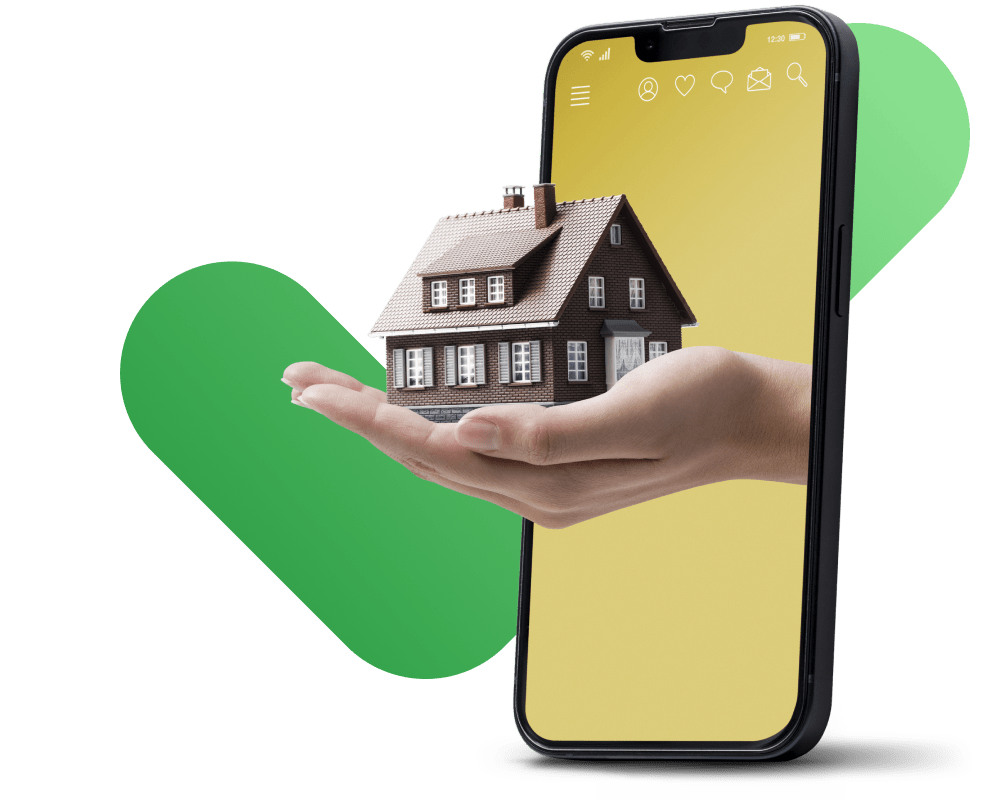
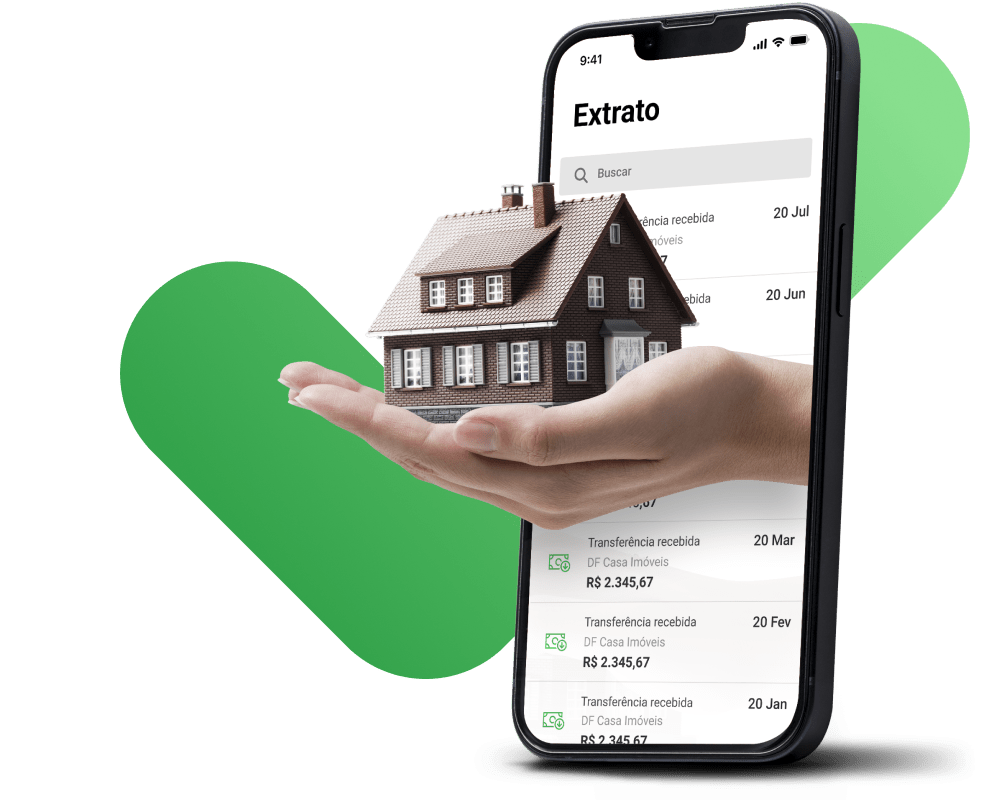
melhorias
botao de zap
links nos ctas
videos de depoimento
imagem de hero nova
correção do nome CF Casa.

diff --git a/index.html b/index.html
@@ -14,11 +14,23 @@
 		<!-- jQuery 3.6.0 (uncomment line below if you need jQuery) -->
 		<!-- <script src="https://cdnjs.cloudflare.com/ajax/libs/jquery/3.6.0/jquery.min.js"></script> -->
 		<!-- Open graph settings (social networks sharing settings) -->
-		<meta property="og:title" content="DF Casas - Aluguel garantido">
+		<meta property="og:title" content="DF Casa - Aluguel garantido">
 		<meta property="og:description" content="O aluguel garantido da DF Casa protege o proprietário, garantindo o recebimento do aluguel, condomínio e até o IPTU, em casos de inadimplencia do inquilino.">
 		<meta property="og:image" content="i/og-image.jpg">
 		<meta property="og:url" content="https://www.dfcasaimoveis.com.br/">
 		<!-- Open graph settings end -->
+		<style>
+			#ctazap {
+				position: fixed;
+				bottom: 20px;
+				right: 28px;
+				z-index: 3;
+			}
+			#ctazap img {
+				width: 80px;
+				height: 80px;
+			}
+		</style>
 	</head> 
 	<body>
 
@@ -148,9 +160,9 @@
 							Aluguel Garantido
 						</h1>
 						<p class="mb-8 fs-1" data-aos="fade-down" data-aos-delay="250">
-							Seu aluguel garantido todos os meses, mesmo que o inquilino atrase o pagamento. Tenha a segurança de receber em dia com a DF Casas.
+							Seu aluguel garantido todos os meses, mesmo que o inquilino atrase o pagamento. Tenha a segurança de receber em dia com a DF Casa.
 						</p>
-						<a href="#" class="btn btn-action-5" data-aos="fade-down" data-aos-delay="400">
+						<a href="https://api.whatsapp.com/send?phone=5515991185772&text=Ol%C3%A1,%20tenho%20interesse%20em%20saber%20mais%20sobre%20o%20Aluguel%20Garantido." target="_blank" class="btn btn-action-5" data-aos="fade-down" data-aos-delay="400">
 							Fale conosco
 						</a>
 					</div>
@@ -267,9 +279,9 @@
 										Transforme seu imóvel em um investimento.
 									</h2>
 									<p class="mb-0 mt-md-4" data-aos="fade-down" data-aos-delay="500">
-										Quer saber mais sobre o Aluguel Garantido da DF Casas? Fale conosco agora mesmo via Whatsapp! Estamos prontos para ajudar você a ter mais segurança e tranquilidade com seus aluguéis.
+										Quer saber mais sobre o Aluguel Garantido da DF Casa? Fale conosco agora mesmo via Whatsapp! Estamos prontos para ajudar você a ter mais segurança e tranquilidade com seus aluguéis.
 									</p>
-									<a href="#" class="mt-8 mb-6 btn btn-action-5" data-aos="fade-down" data-aos-delay="250">
+									<a href="https://api.whatsapp.com/send?phone=5515991185772&text=Ol%C3%A1,%20tenho%20interesse%20em%20saber%20mais%20sobre%20o%20Aluguel%20Garantido." target="_blank" class="mt-8 mb-6 btn btn-action-5" data-aos="fade-down" data-aos-delay="250">
 										Descubra os valores
 									</a>
 								</div>
@@ -289,7 +301,7 @@
 									Como funciona
 								</h2>
 								<p class="fs-2 mb-8 mb-md-15" data-aos="fade-down" data-aos-delay="250">
-									Com o Aluguel Garantido da DF Casas, uma vez que o contrato de aluguel é fechado, você não precisa se preocupar. Todos os meses, independentemente de atrasos no pagamento por parte do inquilino, o aluguel estará na sua conta.
+									Com o Aluguel Garantido da DF Casa, uma vez que o contrato de aluguel é fechado, você não precisa se preocupar. Todos os meses, independentemente de atrasos no pagamento por parte do inquilino, o aluguel estará na sua conta.
 								</p>
 							</div>
 						</div>
@@ -334,120 +346,139 @@
 					</div>
 				</section>
 				<!-- Depoimentos -->
-					<section id="depoimentos" class="py-10 py-lg-20 bg-bg-2">
-						<div class="container">
-							<div class="row justify-content-center text-md-center">
-								<div class="col-lg-10 col-xl-8">
-									<h2 class="display-5 mb-6" data-aos="fade-down" data-aos-delay="0">
-										Proprietários satisfeitos
-									</h2>
-								</div>
-								<div class="col-md-9 col-lg-7 col-xl-6 col-xxl-5 mb-15">
-									<p class="fs-2 mb-0" data-aos="fade-down" data-aos-delay="150">
-										Esses são apenas alguns dos relatos que nossos clientes postaram. Veja mais no <a class="text-action-5" target="_blank" href="https://www.google.com/search?q=df+casa+imoveis">Google</a>.
-									</p>
+				<section id="depoimentos" class="py-10 py-lg-20 bg-bg-2">
+					<div class="container">
+						<div class="row justify-content-center text-md-center">
+							<div class="col-lg-10 col-xl-8">
+								<h2 class="display-5 mb-6" data-aos="fade-down" data-aos-delay="0">
+									Proprietários satisfeitos
+								</h2>
+							</div>
+							<div class="col-md-9 col-lg-7 col-xl-6 col-xxl-5 mb-15">
+								<p class="fs-2 mb-0" data-aos="fade-down" data-aos-delay="150">
+									Esses são apenas alguns dos relatos que nossos clientes postaram. Veja mais no <a class="text-action-5" target="_blank" href="https://www.google.com/search?q=df+casa+imoveis">Google</a>.
+								</p>
+							</div>
+						</div>
+						<div class="row">
+							<div class="col-md-12 col-lg-6 mb-6 d-flex justify-content-center" data-aos="fade-down" data-aos-delay="250">
+								<div class="ratio ratio-16x9">
+									<iframe src="https://www.youtube.com/embed/Gr0u7-SByqg" title="YouTube video" allowfullscreen></iframe>
 								</div>
 							</div>
-							<div class="row">
-								<div class="col-md-6 col-lg-4 mb-6" data-aos="fade-down" data-aos-delay="250">
-									<div class="border rounded-2 h-100 p-6">
-										<h6>
-											Renata Leite da Silva
-										</h6>
-										<p class="fs-5">
-										</p>
-										<p class="mb-6">
-											Tivemos como corretora a Aline Cristine, que foi simpática demais e dedicada ao extremo. Uma profissional de alto padrão, sincera, honesta e muito prestativa que só  a DF Casa Imóveis tem. Indico sem dúvida alguma. Empresa séria e profissionais como a Aline Cristine não encontramos facilmente hoje em dia. Parabéns! Só tenho o que agradecer.
-										</p>
-										<svg width="16" height="16" viewBox="0 0 16 16" fill="none" xmlns="http://www.w3.org/2000/svg" class="fill-action-6 me-1">
-											<path d="M3.61065 15.4435C3.22465 15.6415 2.78665 15.2945 2.86465 14.8515L3.69465 10.1215L0.171653 6.7655C-0.157347 6.4515 0.0136534 5.8775 0.454653 5.8155L5.35265 5.1195L7.53665 0.7925C7.73365 0.4025 8.26665 0.4025 8.46365 0.7925L10.6477 5.1195L15.5457 5.8155C15.9867 5.8775 16.1577 6.4515 15.8287 6.7655L12.3057 10.1215L13.1357 14.8515C13.2137 15.2945 12.7757 15.6415 12.3897 15.4435L7.99865 13.1875L3.60965 15.4435H3.61065Z">
-											</path>
-										</svg>
-										<svg width="16" height="16" viewBox="0 0 16 16" fill="none" xmlns="http://www.w3.org/2000/svg" class="fill-action-6 me-1">
-											<path d="M3.61065 15.4435C3.22465 15.6415 2.78665 15.2945 2.86465 14.8515L3.69465 10.1215L0.171653 6.7655C-0.157347 6.4515 0.0136534 5.8775 0.454653 5.8155L5.35265 5.1195L7.53665 0.7925C7.73365 0.4025 8.26665 0.4025 8.46365 0.7925L10.6477 5.1195L15.5457 5.8155C15.9867 5.8775 16.1577 6.4515 15.8287 6.7655L12.3057 10.1215L13.1357 14.8515C13.2137 15.2945 12.7757 15.6415 12.3897 15.4435L7.99865 13.1875L3.60965 15.4435H3.61065Z">
-											</path>
-										</svg>
-										<svg width="16" height="16" viewBox="0 0 16 16" fill="none" xmlns="http://www.w3.org/2000/svg" class="fill-action-6 me-1">
-											<path d="M3.61065 15.4435C3.22465 15.6415 2.78665 15.2945 2.86465 14.8515L3.69465 10.1215L0.171653 6.7655C-0.157347 6.4515 0.0136534 5.8775 0.454653 5.8155L5.35265 5.1195L7.53665 0.7925C7.73365 0.4025 8.26665 0.4025 8.46365 0.7925L10.6477 5.1195L15.5457 5.8155C15.9867 5.8775 16.1577 6.4515 15.8287 6.7655L12.3057 10.1215L13.1357 14.8515C13.2137 15.2945 12.7757 15.6415 12.3897 15.4435L7.99865 13.1875L3.60965 15.4435H3.61065Z">
-											</path>
-										</svg>
-										<svg width="16" height="16" viewBox="0 0 16 16" fill="none" xmlns="http://www.w3.org/2000/svg" class="fill-action-6 me-1">
-											<path d="M3.61065 15.4435C3.22465 15.6415 2.78665 15.2945 2.86465 14.8515L3.69465 10.1215L0.171653 6.7655C-0.157347 6.4515 0.0136534 5.8775 0.454653 5.8155L5.35265 5.1195L7.53665 0.7925C7.73365 0.4025 8.26665 0.4025 8.46365 0.7925L10.6477 5.1195L15.5457 5.8155C15.9867 5.8775 16.1577 6.4515 15.8287 6.7655L12.3057 10.1215L13.1357 14.8515C13.2137 15.2945 12.7757 15.6415 12.3897 15.4435L7.99865 13.1875L3.60965 15.4435H3.61065Z">
-											</path>
-										</svg>
-										<svg width="16" height="16" viewBox="0 0 16 16" fill="none" xmlns="http://www.w3.org/2000/svg" class="fill-action-6 me-1">
-											<path d="M3.61065 15.4435C3.22465 15.6415 2.78665 15.2945 2.86465 14.8515L3.69465 10.1215L0.171653 6.7655C-0.157347 6.4515 0.0136534 5.8775 0.454653 5.8155L5.35265 5.1195L7.53665 0.7925C7.73365 0.4025 8.26665 0.4025 8.46365 0.7925L10.6477 5.1195L15.5457 5.8155C15.9867 5.8775 16.1577 6.4515 15.8287 6.7655L12.3057 10.1215L13.1357 14.8515C13.2137 15.2945 12.7757 15.6415 12.3897 15.4435L7.99865 13.1875L3.60965 15.4435H3.61065Z">
-											</path>
-										</svg>
-									</div>
-								</div>
-								<div class="col-md-6 col-lg-4 mb-6" data-aos="fade-down" data-aos-delay="400">
-									<div class="border rounded-2 h-100 p-6">
-										<h6>
-											Marcio Maia
-										</h6>
-										<p class="fs-5">
-										</p>
-										<p class="mb-6">
-											Gosto muito da forma que é conduzida as negociações na DF Casa, sendo que são justos e coerentes nas tratativas. O atendimento pessoal é muito bom sendo sempre bem recebido na recepção sem falar do atendimento personalizado da srta Yasmin que também é muito atenciosa e rápida nas respostas.
-										</p>
-										<svg width="16" height="16" viewBox="0 0 16 16" fill="none" xmlns="http://www.w3.org/2000/svg" class="fill-action-6 me-1">
-											<path d="M3.61065 15.4435C3.22465 15.6415 2.78665 15.2945 2.86465 14.8515L3.69465 10.1215L0.171653 6.7655C-0.157347 6.4515 0.0136534 5.8775 0.454653 5.8155L5.35265 5.1195L7.53665 0.7925C7.73365 0.4025 8.26665 0.4025 8.46365 0.7925L10.6477 5.1195L15.5457 5.8155C15.9867 5.8775 16.1577 6.4515 15.8287 6.7655L12.3057 10.1215L13.1357 14.8515C13.2137 15.2945 12.7757 15.6415 12.3897 15.4435L7.99865 13.1875L3.60965 15.4435H3.61065Z">
-											</path>
-										</svg>
-										<svg width="16" height="16" viewBox="0 0 16 16" fill="none" xmlns="http://www.w3.org/2000/svg" class="fill-action-6 me-1">
-											<path d="M3.61065 15.4435C3.22465 15.6415 2.78665 15.2945 2.86465 14.8515L3.69465 10.1215L0.171653 6.7655C-0.157347 6.4515 0.0136534 5.8775 0.454653 5.8155L5.35265 5.1195L7.53665 0.7925C7.73365 0.4025 8.26665 0.4025 8.46365 0.7925L10.6477 5.1195L15.5457 5.8155C15.9867 5.8775 16.1577 6.4515 15.8287 6.7655L12.3057 10.1215L13.1357 14.8515C13.2137 15.2945 12.7757 15.6415 12.3897 15.4435L7.99865 13.1875L3.60965 15.4435H3.61065Z">
-											</path>
-										</svg>
-										<svg width="16" height="16" viewBox="0 0 16 16" fill="none" xmlns="http://www.w3.org/2000/svg" class="fill-action-6 me-1">
-											<path d="M3.61065 15.4435C3.22465 15.6415 2.78665 15.2945 2.86465 14.8515L3.69465 10.1215L0.171653 6.7655C-0.157347 6.4515 0.0136534 5.8775 0.454653 5.8155L5.35265 5.1195L7.53665 0.7925C7.73365 0.4025 8.26665 0.4025 8.46365 0.7925L10.6477 5.1195L15.5457 5.8155C15.9867 5.8775 16.1577 6.4515 15.8287 6.7655L12.3057 10.1215L13.1357 14.8515C13.2137 15.2945 12.7757 15.6415 12.3897 15.4435L7.99865 13.1875L3.60965 15.4435H3.61065Z">
-											</path>
-										</svg>
-										<svg width="16" height="16" viewBox="0 0 16 16" fill="none" xmlns="http://www.w3.org/2000/svg" class="fill-action-6 me-1">
-											<path d="M3.61065 15.4435C3.22465 15.6415 2.78665 15.2945 2.86465 14.8515L3.69465 10.1215L0.171653 6.7655C-0.157347 6.4515 0.0136534 5.8775 0.454653 5.8155L5.35265 5.1195L7.53665 0.7925C7.73365 0.4025 8.26665 0.4025 8.46365 0.7925L10.6477 5.1195L15.5457 5.8155C15.9867 5.8775 16.1577 6.4515 15.8287 6.7655L12.3057 10.1215L13.1357 14.8515C13.2137 15.2945 12.7757 15.6415 12.3897 15.4435L7.99865 13.1875L3.60965 15.4435H3.61065Z">
-											</path>
-										</svg>
-										<svg width="16" height="16" viewBox="0 0 16 16" fill="none" xmlns="http://www.w3.org/2000/svg" class="fill-action-6 me-1">
-											<path d="M3.61065 15.4435C3.22465 15.6415 2.78665 15.2945 2.86465 14.8515L3.69465 10.1215L0.171653 6.7655C-0.157347 6.4515 0.0136534 5.8775 0.454653 5.8155L5.35265 5.1195L7.53665 0.7925C7.73365 0.4025 8.26665 0.4025 8.46365 0.7925L10.6477 5.1195L15.5457 5.8155C15.9867 5.8775 16.1577 6.4515 15.8287 6.7655L12.3057 10.1215L13.1357 14.8515C13.2137 15.2945 12.7757 15.6415 12.3897 15.4435L7.99865 13.1875L3.60965 15.4435H3.61065Z">
-											</path>
-										</svg>
-									</div>
-								</div>
-								<div class="col-md-6 col-lg-4 mb-6" data-aos="fade-down" data-aos-delay="500">
-									<div class="border rounded-2 h-100 p-6">
-										<h6>
-											Marcia Regina
-										</h6>
-										<p class="fs-5">
-										</p>
-										<p class="mb-6">
-											Ao contactar a DF imóveis, fui atendida por uma  moça que já  no primeiro momento me transmitiu segurança e confiança pela sua atenção e profissionalismo. Foram várias visitas e que paciência ela teve rsrs... me ouvindo, conhecendo  toda a minha história, acompanhando todo o processo,  tirando todas as dúvidas, sempre com muita transparência.
-										</p>
-										<svg width="16" height="16" viewBox="0 0 16 16" fill="none" xmlns="http://www.w3.org/2000/svg" class="fill-action-6 me-1">
-											<path d="M3.61065 15.4435C3.22465 15.6415 2.78665 15.2945 2.86465 14.8515L3.69465 10.1215L0.171653 6.7655C-0.157347 6.4515 0.0136534 5.8775 0.454653 5.8155L5.35265 5.1195L7.53665 0.7925C7.73365 0.4025 8.26665 0.4025 8.46365 0.7925L10.6477 5.1195L15.5457 5.8155C15.9867 5.8775 16.1577 6.4515 15.8287 6.7655L12.3057 10.1215L13.1357 14.8515C13.2137 15.2945 12.7757 15.6415 12.3897 15.4435L7.99865 13.1875L3.60965 15.4435H3.61065Z">
-											</path>
-										</svg>
-										<svg width="16" height="16" viewBox="0 0 16 16" fill="none" xmlns="http://www.w3.org/2000/svg" class="fill-action-6 me-1">
-											<path d="M3.61065 15.4435C3.22465 15.6415 2.78665 15.2945 2.86465 14.8515L3.69465 10.1215L0.171653 6.7655C-0.157347 6.4515 0.0136534 5.8775 0.454653 5.8155L5.35265 5.1195L7.53665 0.7925C7.73365 0.4025 8.26665 0.4025 8.46365 0.7925L10.6477 5.1195L15.5457 5.8155C15.9867 5.8775 16.1577 6.4515 15.8287 6.7655L12.3057 10.1215L13.1357 14.8515C13.2137 15.2945 12.7757 15.6415 12.3897 15.4435L7.99865 13.1875L3.60965 15.4435H3.61065Z">
-											</path>
-										</svg>
-										<svg width="16" height="16" viewBox="0 0 16 16" fill="none" xmlns="http://www.w3.org/2000/svg" class="fill-action-6 me-1">
-											<path d="M3.61065 15.4435C3.22465 15.6415 2.78665 15.2945 2.86465 14.8515L3.69465 10.1215L0.171653 6.7655C-0.157347 6.4515 0.0136534 5.8775 0.454653 5.8155L5.35265 5.1195L7.53665 0.7925C7.73365 0.4025 8.26665 0.4025 8.46365 0.7925L10.6477 5.1195L15.5457 5.8155C15.9867 5.8775 16.1577 6.4515 15.8287 6.7655L12.3057 10.1215L13.1357 14.8515C13.2137 15.2945 12.7757 15.6415 12.3897 15.4435L7.99865 13.1875L3.60965 15.4435H3.61065Z">
-											</path>
-										</svg>
-										<svg width="16" height="16" viewBox="0 0 16 16" fill="none" xmlns="http://www.w3.org/2000/svg" class="fill-action-6 me-1">
-											<path d="M3.61065 15.4435C3.22465 15.6415 2.78665 15.2945 2.86465 14.8515L3.69465 10.1215L0.171653 6.7655C-0.157347 6.4515 0.0136534 5.8775 0.454653 5.8155L5.35265 5.1195L7.53665 0.7925C7.73365 0.4025 8.26665 0.4025 8.46365 0.7925L10.6477 5.1195L15.5457 5.8155C15.9867 5.8775 16.1577 6.4515 15.8287 6.7655L12.3057 10.1215L13.1357 14.8515C13.2137 15.2945 12.7757 15.6415 12.3897 15.4435L7.99865 13.1875L3.60965 15.4435H3.61065Z">
-											</path>
-										</svg>
-										<svg width="16" height="16" viewBox="0 0 16 16" fill="none" xmlns="http://www.w3.org/2000/svg" class="fill-action-6 me-1">
-											<path d="M3.61065 15.4435C3.22465 15.6415 2.78665 15.2945 2.86465 14.8515L3.69465 10.1215L0.171653 6.7655C-0.157347 6.4515 0.0136534 5.8775 0.454653 5.8155L5.35265 5.1195L7.53665 0.7925C7.73365 0.4025 8.26665 0.4025 8.46365 0.7925L10.6477 5.1195L15.5457 5.8155C15.9867 5.8775 16.1577 6.4515 15.8287 6.7655L12.3057 10.1215L13.1357 14.8515C13.2137 15.2945 12.7757 15.6415 12.3897 15.4435L7.99865 13.1875L3.60965 15.4435H3.61065Z">
-											</path>
-										</svg>
-									</div>
+							<div class="col-md-12 col-lg-6 mb-6 d-flex justify-content-center" data-aos="fade-down" data-aos-delay="250">
+								<div class="ratio ratio-16x9">
+									<iframe src="https://www.youtube.com/embed/tjTCLP5dyLI" title="YouTube video" allowfullscreen></iframe>
 								</div>
 							</div>
 						</div>
-					</section>
+						<div class="row">
+							<div class="col-md-6 col-lg-4 mb-6" data-aos="fade-down" data-aos-delay="250">
+								<div class="border rounded-2 h-100 p-6">
+									<h6>
+										Renata Leite da Silva
+									</h6>
+									<p class="fs-5">
+									</p>
+									<p class="mb-6">
+										Tivemos como corretora a Aline Cristine, que foi simpática demais e dedicada ao extremo. Uma profissional de alto padrão, sincera, honesta e muito prestativa que só  a DF Casa Imóveis tem. Indico sem dúvida alguma. Empresa séria e profissionais como a Aline Cristine não encontramos facilmente hoje em dia. Parabéns! Só tenho o que agradecer.
+									</p>
+									<svg width="16" height="16" viewBox="0 0 16 16" fill="none" xmlns="http://www.w3.org/2000/svg" class="fill-action-6 me-1">
+										<path d="M3.61065 15.4435C3.22465 15.6415 2.78665 15.2945 2.86465 14.8515L3.69465 10.1215L0.171653 6.7655C-0.157347 6.4515 0.0136534 5.8775 0.454653 5.8155L5.35265 5.1195L7.53665 0.7925C7.73365 0.4025 8.26665 0.4025 8.46365 0.7925L10.6477 5.1195L15.5457 5.8155C15.9867 5.8775 16.1577 6.4515 15.8287 6.7655L12.3057 10.1215L13.1357 14.8515C13.2137 15.2945 12.7757 15.6415 12.3897 15.4435L7.99865 13.1875L3.60965 15.4435H3.61065Z">
+										</path>
+									</svg>
+									<svg width="16" height="16" viewBox="0 0 16 16" fill="none" xmlns="http://www.w3.org/2000/svg" class="fill-action-6 me-1">
+										<path d="M3.61065 15.4435C3.22465 15.6415 2.78665 15.2945 2.86465 14.8515L3.69465 10.1215L0.171653 6.7655C-0.157347 6.4515 0.0136534 5.8775 0.454653 5.8155L5.35265 5.1195L7.53665 0.7925C7.73365 0.4025 8.26665 0.4025 8.46365 0.7925L10.6477 5.1195L15.5457 5.8155C15.9867 5.8775 16.1577 6.4515 15.8287 6.7655L12.3057 10.1215L13.1357 14.8515C13.2137 15.2945 12.7757 15.6415 12.3897 15.4435L7.99865 13.1875L3.60965 15.4435H3.61065Z">
+										</path>
+									</svg>
+									<svg width="16" height="16" viewBox="0 0 16 16" fill="none" xmlns="http://www.w3.org/2000/svg" class="fill-action-6 me-1">
+										<path d="M3.61065 15.4435C3.22465 15.6415 2.78665 15.2945 2.86465 14.8515L3.69465 10.1215L0.171653 6.7655C-0.157347 6.4515 0.0136534 5.8775 0.454653 5.8155L5.35265 5.1195L7.53665 0.7925C7.73365 0.4025 8.26665 0.4025 8.46365 0.7925L10.6477 5.1195L15.5457 5.8155C15.9867 5.8775 16.1577 6.4515 15.8287 6.7655L12.3057 10.1215L13.1357 14.8515C13.2137 15.2945 12.7757 15.6415 12.3897 15.4435L7.99865 13.1875L3.60965 15.4435H3.61065Z">
+										</path>
+									</svg>
+									<svg width="16" height="16" viewBox="0 0 16 16" fill="none" xmlns="http://www.w3.org/2000/svg" class="fill-action-6 me-1">
+										<path d="M3.61065 15.4435C3.22465 15.6415 2.78665 15.2945 2.86465 14.8515L3.69465 10.1215L0.171653 6.7655C-0.157347 6.4515 0.0136534 5.8775 0.454653 5.8155L5.35265 5.1195L7.53665 0.7925C7.73365 0.4025 8.26665 0.4025 8.46365 0.7925L10.6477 5.1195L15.5457 5.8155C15.9867 5.8775 16.1577 6.4515 15.8287 6.7655L12.3057 10.1215L13.1357 14.8515C13.2137 15.2945 12.7757 15.6415 12.3897 15.4435L7.99865 13.1875L3.60965 15.4435H3.61065Z">
+										</path>
+									</svg>
+									<svg width="16" height="16" viewBox="0 0 16 16" fill="none" xmlns="http://www.w3.org/2000/svg" class="fill-action-6 me-1">
+										<path d="M3.61065 15.4435C3.22465 15.6415 2.78665 15.2945 2.86465 14.8515L3.69465 10.1215L0.171653 6.7655C-0.157347 6.4515 0.0136534 5.8775 0.454653 5.8155L5.35265 5.1195L7.53665 0.7925C7.73365 0.4025 8.26665 0.4025 8.46365 0.7925L10.6477 5.1195L15.5457 5.8155C15.9867 5.8775 16.1577 6.4515 15.8287 6.7655L12.3057 10.1215L13.1357 14.8515C13.2137 15.2945 12.7757 15.6415 12.3897 15.4435L7.99865 13.1875L3.60965 15.4435H3.61065Z">
+										</path>
+									</svg>
+								</div>
+							</div>
+							<div class="col-md-6 col-lg-4 mb-6" data-aos="fade-down" data-aos-delay="400">
+								<div class="border rounded-2 h-100 p-6">
+									<h6>
+										Marcio Maia
+									</h6>
+									<p class="fs-5">
+									</p>
+									<p class="mb-6">
+										Gosto muito da forma que é conduzida as negociações na DF Casa, sendo que são justos e coerentes nas tratativas. O atendimento pessoal é muito bom sendo sempre bem recebido na recepção sem falar do atendimento personalizado da srta Yasmin que também é muito atenciosa e rápida nas respostas.
+									</p>
+									<svg width="16" height="16" viewBox="0 0 16 16" fill="none" xmlns="http://www.w3.org/2000/svg" class="fill-action-6 me-1">
+										<path d="M3.61065 15.4435C3.22465 15.6415 2.78665 15.2945 2.86465 14.8515L3.69465 10.1215L0.171653 6.7655C-0.157347 6.4515 0.0136534 5.8775 0.454653 5.8155L5.35265 5.1195L7.53665 0.7925C7.73365 0.4025 8.26665 0.4025 8.46365 0.7925L10.6477 5.1195L15.5457 5.8155C15.9867 5.8775 16.1577 6.4515 15.8287 6.7655L12.3057 10.1215L13.1357 14.8515C13.2137 15.2945 12.7757 15.6415 12.3897 15.4435L7.99865 13.1875L3.60965 15.4435H3.61065Z">
+										</path>
+									</svg>
+									<svg width="16" height="16" viewBox="0 0 16 16" fill="none" xmlns="http://www.w3.org/2000/svg" class="fill-action-6 me-1">
+										<path d="M3.61065 15.4435C3.22465 15.6415 2.78665 15.2945 2.86465 14.8515L3.69465 10.1215L0.171653 6.7655C-0.157347 6.4515 0.0136534 5.8775 0.454653 5.8155L5.35265 5.1195L7.53665 0.7925C7.73365 0.4025 8.26665 0.4025 8.46365 0.7925L10.6477 5.1195L15.5457 5.8155C15.9867 5.8775 16.1577 6.4515 15.8287 6.7655L12.3057 10.1215L13.1357 14.8515C13.2137 15.2945 12.7757 15.6415 12.3897 15.4435L7.99865 13.1875L3.60965 15.4435H3.61065Z">
+										</path>
+									</svg>
+									<svg width="16" height="16" viewBox="0 0 16 16" fill="none" xmlns="http://www.w3.org/2000/svg" class="fill-action-6 me-1">
+										<path d="M3.61065 15.4435C3.22465 15.6415 2.78665 15.2945 2.86465 14.8515L3.69465 10.1215L0.171653 6.7655C-0.157347 6.4515 0.0136534 5.8775 0.454653 5.8155L5.35265 5.1195L7.53665 0.7925C7.73365 0.4025 8.26665 0.4025 8.46365 0.7925L10.6477 5.1195L15.5457 5.8155C15.9867 5.8775 16.1577 6.4515 15.8287 6.7655L12.3057 10.1215L13.1357 14.8515C13.2137 15.2945 12.7757 15.6415 12.3897 15.4435L7.99865 13.1875L3.60965 15.4435H3.61065Z">
+										</path>
+									</svg>
+									<svg width="16" height="16" viewBox="0 0 16 16" fill="none" xmlns="http://www.w3.org/2000/svg" class="fill-action-6 me-1">
+										<path d="M3.61065 15.4435C3.22465 15.6415 2.78665 15.2945 2.86465 14.8515L3.69465 10.1215L0.171653 6.7655C-0.157347 6.4515 0.0136534 5.8775 0.454653 5.8155L5.35265 5.1195L7.53665 0.7925C7.73365 0.4025 8.26665 0.4025 8.46365 0.7925L10.6477 5.1195L15.5457 5.8155C15.9867 5.8775 16.1577 6.4515 15.8287 6.7655L12.3057 10.1215L13.1357 14.8515C13.2137 15.2945 12.7757 15.6415 12.3897 15.4435L7.99865 13.1875L3.60965 15.4435H3.61065Z">
+										</path>
+									</svg>
+									<svg width="16" height="16" viewBox="0 0 16 16" fill="none" xmlns="http://www.w3.org/2000/svg" class="fill-action-6 me-1">
+										<path d="M3.61065 15.4435C3.22465 15.6415 2.78665 15.2945 2.86465 14.8515L3.69465 10.1215L0.171653 6.7655C-0.157347 6.4515 0.0136534 5.8775 0.454653 5.8155L5.35265 5.1195L7.53665 0.7925C7.73365 0.4025 8.26665 0.4025 8.46365 0.7925L10.6477 5.1195L15.5457 5.8155C15.9867 5.8775 16.1577 6.4515 15.8287 6.7655L12.3057 10.1215L13.1357 14.8515C13.2137 15.2945 12.7757 15.6415 12.3897 15.4435L7.99865 13.1875L3.60965 15.4435H3.61065Z">
+										</path>
+									</svg>
+								</div>
+							</div>
+							<div class="col-md-6 col-lg-4 mb-6" data-aos="fade-down" data-aos-delay="500">
+								<div class="border rounded-2 h-100 p-6">
+									<h6>
+										Marcia Regina
+									</h6>
+									<p class="fs-5">
+									</p>
+									<p class="mb-6">
+										Ao contactar a DF imóveis, fui atendida por uma  moça que já  no primeiro momento me transmitiu segurança e confiança pela sua atenção e profissionalismo. Foram várias visitas e que paciência ela teve rsrs... me ouvindo, conhecendo  toda a minha história, acompanhando todo o processo,  tirando todas as dúvidas, sempre com muita transparência.
+									</p>
+									<svg width="16" height="16" viewBox="0 0 16 16" fill="none" xmlns="http://www.w3.org/2000/svg" class="fill-action-6 me-1">
+										<path d="M3.61065 15.4435C3.22465 15.6415 2.78665 15.2945 2.86465 14.8515L3.69465 10.1215L0.171653 6.7655C-0.157347 6.4515 0.0136534 5.8775 0.454653 5.8155L5.35265 5.1195L7.53665 0.7925C7.73365 0.4025 8.26665 0.4025 8.46365 0.7925L10.6477 5.1195L15.5457 5.8155C15.9867 5.8775 16.1577 6.4515 15.8287 6.7655L12.3057 10.1215L13.1357 14.8515C13.2137 15.2945 12.7757 15.6415 12.3897 15.4435L7.99865 13.1875L3.60965 15.4435H3.61065Z">
+										</path>
+									</svg>
+									<svg width="16" height="16" viewBox="0 0 16 16" fill="none" xmlns="http://www.w3.org/2000/svg" class="fill-action-6 me-1">
+										<path d="M3.61065 15.4435C3.22465 15.6415 2.78665 15.2945 2.86465 14.8515L3.69465 10.1215L0.171653 6.7655C-0.157347 6.4515 0.0136534 5.8775 0.454653 5.8155L5.35265 5.1195L7.53665 0.7925C7.73365 0.4025 8.26665 0.4025 8.46365 0.7925L10.6477 5.1195L15.5457 5.8155C15.9867 5.8775 16.1577 6.4515 15.8287 6.7655L12.3057 10.1215L13.1357 14.8515C13.2137 15.2945 12.7757 15.6415 12.3897 15.4435L7.99865 13.1875L3.60965 15.4435H3.61065Z">
+										</path>
+									</svg>
+									<svg width="16" height="16" viewBox="0 0 16 16" fill="none" xmlns="http://www.w3.org/2000/svg" class="fill-action-6 me-1">
+										<path d="M3.61065 15.4435C3.22465 15.6415 2.78665 15.2945 2.86465 14.8515L3.69465 10.1215L0.171653 6.7655C-0.157347 6.4515 0.0136534 5.8775 0.454653 5.8155L5.35265 5.1195L7.53665 0.7925C7.73365 0.4025 8.26665 0.4025 8.46365 0.7925L10.6477 5.1195L15.5457 5.8155C15.9867 5.8775 16.1577 6.4515 15.8287 6.7655L12.3057 10.1215L13.1357 14.8515C13.2137 15.2945 12.7757 15.6415 12.3897 15.4435L7.99865 13.1875L3.60965 15.4435H3.61065Z">
+										</path>
+									</svg>
+									<svg width="16" height="16" viewBox="0 0 16 16" fill="none" xmlns="http://www.w3.org/2000/svg" class="fill-action-6 me-1">
+										<path d="M3.61065 15.4435C3.22465 15.6415 2.78665 15.2945 2.86465 14.8515L3.69465 10.1215L0.171653 6.7655C-0.157347 6.4515 0.0136534 5.8775 0.454653 5.8155L5.35265 5.1195L7.53665 0.7925C7.73365 0.4025 8.26665 0.4025 8.46365 0.7925L10.6477 5.1195L15.5457 5.8155C15.9867 5.8775 16.1577 6.4515 15.8287 6.7655L12.3057 10.1215L13.1357 14.8515C13.2137 15.2945 12.7757 15.6415 12.3897 15.4435L7.99865 13.1875L3.60965 15.4435H3.61065Z">
+										</path>
+									</svg>
+									<svg width="16" height="16" viewBox="0 0 16 16" fill="none" xmlns="http://www.w3.org/2000/svg" class="fill-action-6 me-1">
+										<path d="M3.61065 15.4435C3.22465 15.6415 2.78665 15.2945 2.86465 14.8515L3.69465 10.1215L0.171653 6.7655C-0.157347 6.4515 0.0136534 5.8775 0.454653 5.8155L5.35265 5.1195L7.53665 0.7925C7.73365 0.4025 8.26665 0.4025 8.46365 0.7925L10.6477 5.1195L15.5457 5.8155C15.9867 5.8775 16.1577 6.4515 15.8287 6.7655L12.3057 10.1215L13.1357 14.8515C13.2137 15.2945 12.7757 15.6415 12.3897 15.4435L7.99865 13.1875L3.60965 15.4435H3.61065Z">
+										</path>
+									</svg>
+								</div>
+							</div>
+						</div>
+					</div>
+				</section>
+
+				<!-- CTA do whatsapp -->
+				<div id="ctazap">
+					<a href="https://api.whatsapp.com/send?phone=5515991185772&text=Ol%C3%A1,%20tenho%20interesse%20em%20saber%20mais%20sobre%20o%20Aluguel%20Garantido." target="_blank">
+						<img src="i/cta-zap.png" alt="icone do whtsapp, que vai abrir o aplicativo para enviar uma mensagem de contato">
+					</a>
+				</div>
 
 		<!-- Bootstrap JS -->
 		<script src="https://cdn.jsdelivr.net/npm/bootstrap@5.1.2/dist/js/bootstrap.bundle.min.js"></script>
